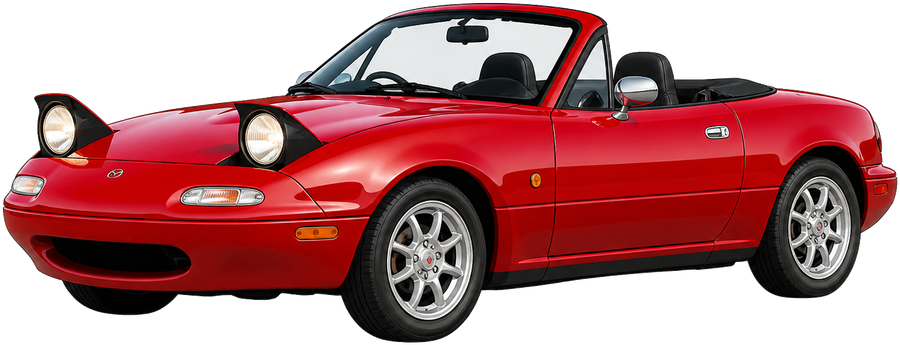
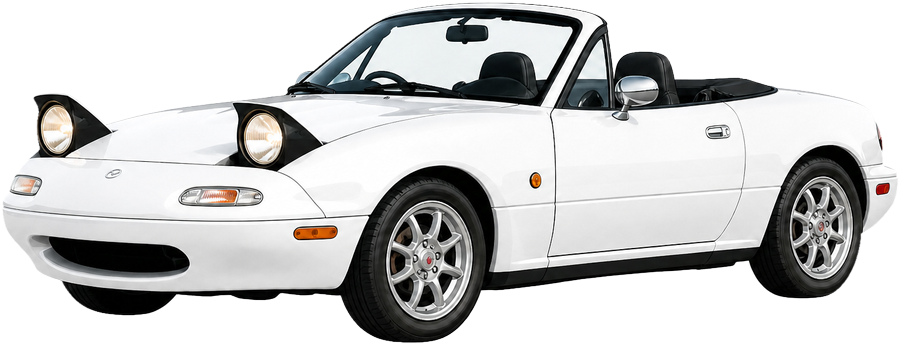
変更: 授与エンディング/パレードのユーノスロードスターをクラシックレッドからシャストホワイト（白）に差し替え（背景透過を車体が抜けないよう白背景から分離）

diff --git a/README.md b/README.md
@@ -96,7 +96,7 @@
   - タイヤホイール投げ: 覚醒後に使う必殺技。ゴムタイヤ＋スポークのアルミホイールを高速回転させて放ち、地面でバウンドしながら迫る。覚醒の瞬間には大技**「ホイール乱舞!!」**（5連投）を発動
 - 倒し方: 低く降りた瞬間の踏みつけ／Wの巨大化・タイムワープ・ターボの体当たり／お助けマン／投げ返し。連戦で詰まらないよう、出現時にライフを最低3まで回復し Wゲージも70まで補充する
 - 撃破後は「TRUE LAST BOSS 撃破!!」→ ゴール → 授与エンディングへ
-- **ロードスター授与**: ゴール到達の瞬間、黄金の光の柱と後光のなかに**神**（`finale_god.png`）が降臨し、「よくぞ 真のラストボスを 打ち倒した！」と主人公を認める。黄金のカギが神の手から主人公へわたる。続いて**リアルな ユーノスロードスター（NA型・クラシックレッド・リトラ開・8本スポーク）**（`eunos_roadster.png`）が黄金の輝きとリトラのヘッドライトのきらめきとともに登場し、「✨ ロードスターを てにいれた！！ ✨」「よくぞ ここまで 走り抜けた！」「神より この ユーノスロードスターを！」のテロップとファンファーレ。パレード（全5面 制覇！）と `THE END` でも神と ユーノスロードスターが空に浮かび、「GET! NA ROADSTER」のプレートがつく。スタッフロールCASTは「神 / 最後に ロードスターを 授けた」「真のラストボス / TRUE LAST BOSS」「NAロードスター / 真のラストボスから 授かった 相棒」
+- **ロードスター授与**: ゴール到達の瞬間、黄金の光の柱と後光のなかに**神**（`finale_god.png`）が降臨し、「よくぞ 真のラストボスを 打ち倒した！」と主人公を認める。黄金のカギが神の手から主人公へわたる。続いて**リアルな ユーノスロードスター（NA型・シャストホワイト（白）・リトラ開・8本スポーク）**（`eunos_roadster.png`）が黄金の輝きとリトラのヘッドライトのきらめきとともに登場し、「✨ ロードスターを てにいれた！！ ✨」「よくぞ ここまで 走り抜けた！」「神より この ユーノスロードスターを！」のテロップとファンファーレ。パレード（全5面 制覇！）と `THE END` でも神と ユーノスロードスターが空に浮かび、「GET! NA ROADSTER」のプレートがつく。スタッフロールCASTは「神 / 最後に ロードスターを 授けた」「真のラストボス / TRUE LAST BOSS」「NAロードスター / 真のラストボスから 授かった 相棒」
 - 5面以外（1〜4面）の挙動は従来どおり（神演出は廃止し、`god_char.png` は削除）
 
 ### お助けマン（全ステージ共通）
